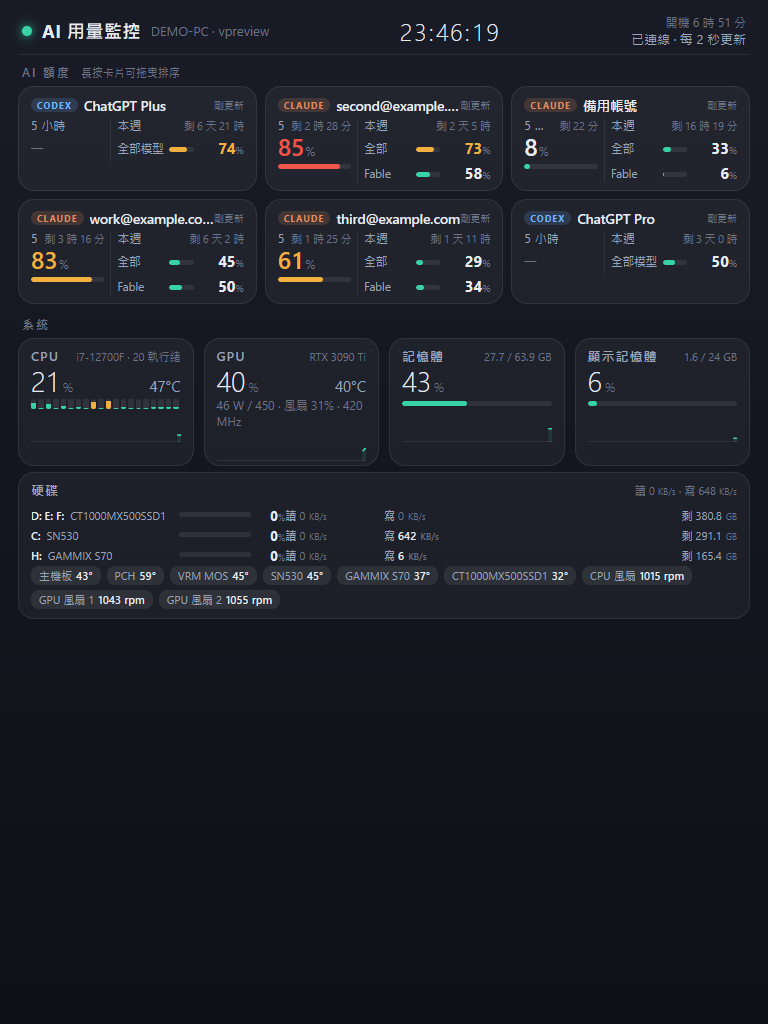
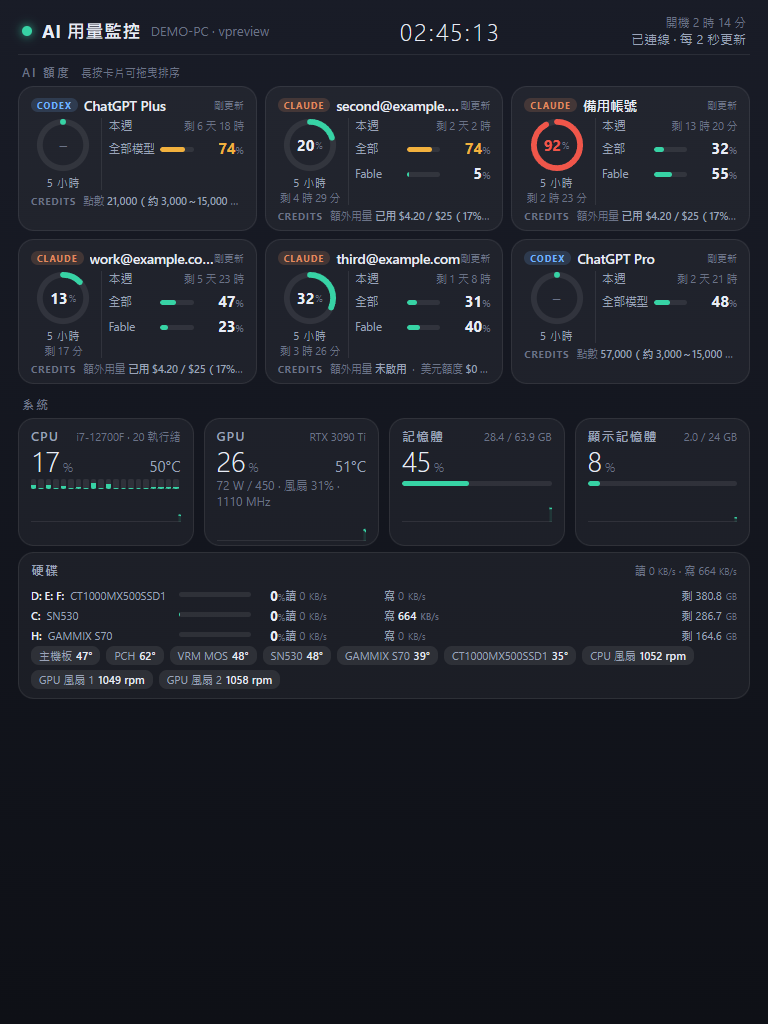
1.4.5: 5-hour ring gauge on the dashboard, Credits line per card (Claude extra usage / dollar allowance, Codex credits + reset vouchers); refreshed screenshots

diff --git a/src/providers/claude.js b/src/providers/claude.js
@@ -149,9 +149,73 @@ function normalizeUsage(raw) {
   return buckets;
 }
 
+// ---- Credits（額外用量）--------------------------------------
+// 回應裡的 spend／extra_usage 是「超過方案額度後可用的付費額度」；
+// 另外有些帳號會多一個以美元計的額度物件（limit_dollars / used_dollars，例如促銷額度），一併列出。
+function money(obj) {
+  if (!obj || typeof obj !== 'object') return null;
+  const n = num(obj.amount_minor);
+  if (n === null) return null;
+  const exp = num(obj.exponent);
+  return n / 10 ** (exp === null ? 2 : exp);
+}
+
+function fmtMoney(v, currency) {
+  if (v === null || v === undefined) return null;
+  const sym = !currency || currency === 'USD' ? '$' : `${currency} `;
+  return `${sym}${Number.isInteger(v) ? v : v.toFixed(2)}`;
+}
+
+function normalizeCredits(raw) {
+  if (!raw || typeof raw !== 'object') return null;
+  const spend = raw.spend && typeof raw.spend === 'object' ? raw.spend : null;
+  const eu = raw.extra_usage && typeof raw.extra_usage === 'object' ? raw.extra_usage : null;
+  if (!spend && !eu) return null;
+  const items = [];
+  let percent = null;
+  let level = null;
+
+  const enabled = Boolean((spend && spend.enabled) || (eu && eu.is_enabled));
+  if (enabled) {
+    const currency = (spend && spend.used && spend.used.currency) || (eu && eu.currency) || 'USD';
+    const used = money(spend && spend.used);
+    const limit = money(spend && spend.limit) ?? num(eu && eu.monthly_limit);
+    const balance = money(spend && spend.balance) ?? num(spend && spend.balance);
+    percent = num(spend && spend.percent, eu && eu.utilization);
+    let text;
+    if (balance !== null) text = `餘額 ${fmtMoney(balance, currency)}`;
+    else text = `已用 ${fmtMoney(used ?? 0, currency)}${limit !== null ? ` / ${fmtMoney(limit, currency)}` : ''}`;
+    if (percent !== null) text += `（${Math.round(percent)}%）`;
+    if ((spend && spend.spend_limit_reached) || (eu && eu.spend_limit_reached)) {
+      text += '・已達上限';
+      level = 'hot';
+    }
+    items.push({ name: '額外用量', text });
+  } else {
+    items.push({ name: '額外用量', text: eu && eu.credits_ever_enabled ? '已關閉' : '未啟用' });
+  }
+
+  // 以美元計的額度（名稱是 API 的內部代號，不顯示）
+  for (const [key, v] of Object.entries(raw)) {
+    if (!v || typeof v !== 'object' || Array.isArray(v) || key === 'spend' || key === 'extra_usage') continue;
+    const limitD = num(v.limit_dollars);
+    if (limitD === null) continue;
+    const usedD = num(v.used_dollars) ?? 0;
+    const reset = pickResetsAt(v);
+    let t = `${fmtMoney(usedD)} / ${fmtMoney(limitD)}`;
+    if (reset) {
+      const d = new Date(reset);
+      if (!Number.isNaN(d.getTime())) t += `（${d.getMonth() + 1}/${d.getDate()} 重置）`;
+    }
+    items.push({ name: '美元額度', text: t });
+    if (percent === null && limitD > 0) percent = Math.round((100 * usedD) / limitD);
+  }
+  return { label: 'Credits', items, percent, level };
+}
+
 async function fetchUsage(accessToken) {
   const raw = await getJson(C.CLAUDE_USAGE_URL, accessToken);
-  return { buckets: normalizeUsage(raw), raw };
+  return { buckets: normalizeUsage(raw), credits: normalizeCredits(raw), raw };
 }
 
 async function fetchProfile(accessToken) {
@@ -168,4 +232,4 @@ async function fetchProfile(accessToken) {
   return { email, name, raw };
 }
 
-module.exports = { fetchUsage, fetchProfile, normalizeUsage, AuthError };
+module.exports = { fetchUsage, fetchProfile, normalizeUsage, normalizeCredits, AuthError };

diff --git a/dashboard/app.js b/dashboard/app.js
@@ -135,19 +135,37 @@
     return '<span class="badge">CLAUDE</span>';
   }
 
-  // 一格額度：名稱／大百分比／細條／剩多久重置
-  //   name 為空 → 這張卡沒有這種額度，留白但佔位（讓每張卡的三欄對齊）
-  //   showReset=false → 不寫重置（分模型額度跟本週同時重置，只在本週寫一次）
+  // 鏤空圓環（SVG 兩個圓：底色一圈＋依百分比畫一段弧），iOS 9/10 Safari 也能畫
+  function donutSvg(pct, lv) {
+    var r = 24;
+    var c = 2 * Math.PI * r;
+    var dash = (Math.min(100, Math.max(0, pct || 0)) / 100 * c).toFixed(2);
+    return '<svg class="donut" viewBox="0 0 56 56"><circle class="donut-bg" cx="28" cy="28" r="' + r + '"></circle>' +
+      '<circle class="donut-fg ' + lv + '" cx="28" cy="28" r="' + r + '" stroke-dasharray="' + dash + ' ' + c.toFixed(2) + '" transform="rotate(-90 28 28)"></circle></svg>';
+  }
+
+  // 左欄「5 小時」：圓環中間放百分比，下面寫名稱與剩多久重置
+  //   name 為空 → 這張卡沒有這種額度，留白但佔位（讓每張卡的欄位對齊）
   function quotaCell(name, bucket, showReset) {
     if (!name) return '<div class="q blank"></div>';
-    if (!bucket) return '<div class="q none"><div class="q-name">' + esc(name) + '</div><div class="q-pct">–</div></div>';
+    if (!bucket) {
+      return '<div class="q ring-cell none"><div class="ring">' + donutSvg(0, '') + '<div class="pct">–</div></div><div class="ring-name">' + esc(name) + '</div></div>';
+    }
     var lv = levelOf(bucket.percent);
-    // 倒數放在標題同一行靠右（省一行高度，五張卡才放得下）
-    var html = '<div class="q"><div class="q-head"><span class="q-name">' + esc(name) + '</span>';
+    var html = '<div class="q ring-cell"><div class="ring">' + donutSvg(bucket.percent, lv) +
+      '<div class="pct ' + lv + '">' + Math.round(bucket.percent) + '<small>%</small></div></div>';
+    html += '<div class="ring-name">' + esc(name) + '</div>';
     if (showReset) html += '<span class="q-reset" data-reset="' + esc(bucket.resetsAt || '') + '">' + fmtReset(bucket.resetsAt, true) + '</span>';
-    html += '</div><div class="q-pct ' + lv + '">' + Math.round(bucket.percent) + '<small>%</small></div>';
-    html += '<div class="bar"><div class="fill ' + lv + '" style="width:' + Math.min(100, bucket.percent) + '%"></div></div></div>';
+    html += '</div>';
     return html;
+  }
+
+  // Credits 一行（各家的額外用量／點數）；沒有資料的服務就不畫
+  function creditLine(credits) {
+    if (!credits || !credits.items || !credits.items.length) return '';
+    var parts = [];
+    for (var i = 0; i < credits.items.length; i++) parts.push(esc(credits.items[i].name) + ' <b>' + esc(credits.items[i].text) + '</b>');
+    return '<div class="credit-line' + (credits.level === 'hot' ? ' hot' : '') + '"><span class="credit-tag">Credits</span>' + parts.join('<span class="sep">·</span>') + '</div>';
   }
 
   // 本週欄：兩列（全部模型／分模型），每列「名稱｜進度條｜百分比」同一行，重置只寫一次
@@ -240,6 +258,7 @@
         if (!week && scoped) { week = scoped; scoped = null; }
         // 左「5 小時」大數字；右「本週」兩列（全部／分模型）
         html += '<div class="quota">' + quotaCell('5 小時', session, true) + weekCell(week, scoped) + '</div>';
+        html += creditLine(u.credits);
       }
       html += '</div>';
       cardsHtml.push({ provider: a.provider, html: html });

diff --git a/test/units.js b/test/units.js
@@ -693,6 +693,51 @@ testAsync('伺服器：POST /api/order 回存順序；格式不對 400、太大 
   await noHandler.stop();
 });
 
+console.log('\nCredits（額外用量／點數）：');
+{
+  const claude = require('../src/providers/claude');
+  test('Claude：額外用量未啟用＋美元額度物件 → 兩個項目，百分比用美元額度算', () => {
+    const raw = {
+      spend: { used: { amount_minor: 0, currency: 'USD', exponent: 2 }, limit: null, percent: 0, enabled: false, balance: null },
+      extra_usage: { is_enabled: false, credits_ever_enabled: false },
+      iguana_necktie: { utilization: 0, resets_at: '2026-11-05T07:59:00+00:00', limit_dollars: 250, used_dollars: 12.5 },
+      five_hour: { utilization: 2, limit_dollars: null },
+    };
+    const c = claude.normalizeCredits(raw);
+    assert.deepStrictEqual(c.items.map((i) => i.name), ['額外用量', '美元額度']);
+    assert.strictEqual(c.items[0].text, '未啟用');
+    assert.strictEqual(c.items[1].text, '$12.50 / $250（11/5 重置）');
+    assert.strictEqual(c.percent, 5);
+  });
+  test('Claude：額外用量已啟用 → 已用／上限／百分比；達上限標 hot；關過的顯示已關閉', () => {
+    const on = claude.normalizeCredits({
+      spend: { used: { amount_minor: 1234, currency: 'USD', exponent: 2 }, limit: { amount_minor: 5000, currency: 'USD', exponent: 2 }, percent: 24.7, enabled: true, balance: null, spend_limit_reached: false },
+      extra_usage: { is_enabled: true },
+    });
+    assert.strictEqual(on.items[0].text, '已用 $12.34 / $50（25%）');
+    assert.strictEqual(on.percent, 24.7);
+    const capped = claude.normalizeCredits({ spend: { used: { amount_minor: 5000, exponent: 2 }, percent: 100, enabled: true, spend_limit_reached: true } });
+    assert.ok(capped.items[0].text.includes('已達上限'));
+    assert.strictEqual(capped.level, 'hot');
+    const off = claude.normalizeCredits({ extra_usage: { is_enabled: false, credits_ever_enabled: true } });
+    assert.strictEqual(off.items[0].text, '已關閉');
+    assert.strictEqual(claude.normalizeCredits({ limits: [] }), null, '沒有 spend／extra_usage 就 null');
+  });
+  test('Codex：有點數 → 千分位＋約略訊息數；沒點數 → 無；重置券張數', () => {
+    const c = codex.normalizeCredits({
+      credits: { has_credits: true, unlimited: false, overage_limit_reached: false, balance: '56581.1407', approx_local_messages: [14145, 73555] },
+      rate_limit_reset_credits: { available_count: 3 },
+    });
+    assert.deepStrictEqual(c.items, [{ name: '點數', text: '56,581（約 14,145～73,555 則）' }, { name: '重置券', text: '3 張' }]);
+    const none = codex.normalizeCredits({ credits: { has_credits: false, balance: '0', approx_local_messages: [0, 0] }, rate_limit_reset_credits: { available_count: 2 } });
+    assert.strictEqual(none.items[0].text, '無');
+    assert.strictEqual(none.items[1].text, '2 張');
+    const over = codex.normalizeCredits({ credits: { has_credits: true, balance: '10', overage_limit_reached: true } });
+    assert.strictEqual(over.level, 'hot');
+    assert.strictEqual(codex.normalizeCredits({ rate_limit: {} }), null);
+  });
+}
+
 console.log('\n硬碟讀寫取樣失敗時沿用上一筆：');
 {
   const { SystemMetrics } = require('../src/sysmetrics');

diff --git a/dashboard/style.css b/dashboard/style.css
@@ -315,6 +315,34 @@ body.many.top .spark { height: 30px; margin-top: 2px; }
 body.many.top .line { margin-bottom: 2px; min-height: 14px; }
 body.many.top .tile .bar { margin: 4px 0 6px; }
 
+/* ---- 5 小時圓環＋Credits 一行 ---- */
+.ring-cell { -webkit-flex: 0 0 34%; flex: 0 0 34%; display: -webkit-flex; display: flex; -webkit-flex-direction: column; flex-direction: column; -webkit-align-items: center; align-items: center; text-align: center; }
+.ring { position: relative; width: 62px; height: 62px; }
+.donut { width: 100%; height: 100%; display: block; }
+.donut-bg { fill: none; stroke: var(--track); stroke-width: 6; }
+.donut-fg { fill: none; stroke: var(--ok); stroke-width: 6; stroke-linecap: round; }
+.donut-fg.warn { stroke: var(--warn); }
+.donut-fg.hot { stroke: var(--hot); }
+.ring .pct { position: absolute; top: 0; left: 0; right: 0; bottom: 0; display: -webkit-flex; display: flex; -webkit-align-items: center; align-items: center; -webkit-justify-content: center; justify-content: center; font-size: 17px; font-weight: 700; font-variant-numeric: tabular-nums; }
+.ring .pct small { font-size: 9px; font-weight: 400; color: var(--text-faint); margin-left: 1px; }
+.ring .pct.warn { color: var(--warn); }
+.ring .pct.hot { color: var(--hot); }
+.ring-cell.none .pct { color: var(--text-faint); font-weight: 300; }
+.ring-name { font-size: 11px; color: var(--text-dim); letter-spacing: 0.5px; margin-top: 3px; }
+.ring-cell .q-reset { margin-left: 0; margin-top: 1px; }
+.credit-line { font-size: 11px; color: var(--text-faint); margin-top: 6px; white-space: nowrap; overflow: hidden; text-overflow: ellipsis; }
+.credit-line .credit-tag { font-size: 9.5px; font-weight: 700; letter-spacing: 1px; color: var(--text-faint); margin-right: 7px; text-transform: uppercase; }
+.credit-line b { color: var(--text-dim); font-weight: 600; }
+.credit-line .sep { margin: 0 6px; }
+.credit-line.hot b { color: var(--hot); }
+body.many .ring { width: 54px; height: 54px; }
+body.many .ring .pct { font-size: 15px; }
+body.many .credit-line { font-size: 10.5px; margin-top: 4px; }
+body.many.rows .ring { width: 46px; height: 46px; }
+body.many.rows .ring .pct { font-size: 13px; }
+body.many.rows .ring-name { display: none; }
+body.many.rows .credit-line { margin: 0 0 0 10px; -webkit-flex: 0 1 30%; flex: 0 1 30%; }
+
 /* ---- 拖曳排序（長按卡片後移動）---- */
 .card { -webkit-user-select: none; user-select: none; -webkit-touch-callout: none; }
 .card.lifted { -webkit-transform: scale(1.03); transform: scale(1.03); box-shadow: 0 8px 24px rgba(0, 0, 0, 0.5); border-color: var(--ok); z-index: 5; position: relative; opacity: 0.95; }

diff --git a/src/providers/codex.js b/src/providers/codex.js
@@ -117,6 +117,38 @@ function normalizeUsage(raw) {
   return buckets;
 }
 
+// ---- Credits：ChatGPT 的用量點數（超過方案額度後可扣）＋速率重置券 ----
+function fmtInt(n) {
+  return Math.round(n).toString().replace(/\B(?=(\d{3})+(?!\d))/g, ',');
+}
+
+function normalizeCredits(raw) {
+  const c = raw && raw.credits && typeof raw.credits === 'object' ? raw.credits : null;
+  const resets = raw && raw.rate_limit_reset_credits && typeof raw.rate_limit_reset_credits === 'object' ? raw.rate_limit_reset_credits : null;
+  if (!c && !resets) return null;
+  const items = [];
+  let level = null;
+  if (c) {
+    let text;
+    if (c.unlimited) text = '無限';
+    else if (!c.has_credits) text = '無';
+    else {
+      const bal = num(c.balance);
+      text = bal === null ? '有' : fmtInt(bal);
+      const range = Array.isArray(c.approx_local_messages) ? c.approx_local_messages.map((x) => num(x)).filter((x) => x !== null) : [];
+      if (range.length === 2 && range[1] > 0) text += `（約 ${fmtInt(range[0])}～${fmtInt(range[1])} 則）`;
+    }
+    if (c.overage_limit_reached) {
+      text += '・已達上限';
+      level = 'hot';
+    }
+    items.push({ name: '點數', text });
+  }
+  const n = resets ? num(resets.available_count) : null;
+  if (n !== null) items.push({ name: '重置券', text: `${n} 張` });
+  return { label: 'Credits', items, percent: null, level };
+}
+
 async function fetchUsage(accessToken, accountId) {
   const headers = {
     Authorization: `Bearer ${accessToken}`,
@@ -137,7 +169,7 @@ async function fetchUsage(accessToken, accountId) {
   }
   if (!res.ok) throw new Error(`伺服器回應 HTTP ${res.status}`);
   const raw = await res.json();
-  return { buckets: normalizeUsage(raw), raw };
+  return { buckets: normalizeUsage(raw), credits: normalizeCredits(raw), raw };
 }
 
-module.exports = { fetchUsage, normalizeUsage, AuthError };
+module.exports = { fetchUsage, normalizeUsage, normalizeCredits, AuthError };

diff --git a/renderer/app.js b/renderer/app.js
@@ -24,6 +24,7 @@ const ICONS = {
   trash: '<svg viewBox="0 0 24 24"><polyline points="3 6 5 6 21 6"/><path d="M19 6l-1 14H6L5 6"/><path d="M9 6V4h6v2"/><line x1="10" y1="11" x2="10" y2="17"/><line x1="14" y1="11" x2="14" y2="17"/></svg>',
   alert: '<svg viewBox="0 0 24 24"><path d="M10.29 3.86L1.82 18a2 2 0 0 0 1.71 3h16.94a2 2 0 0 0 1.71-3L13.71 3.86a2 2 0 0 0-3.42 0z"/><line x1="12" y1="9" x2="12" y2="13"/><line x1="12" y1="17" x2="12.01" y2="17"/></svg>',
   clock: '<svg viewBox="0 0 24 24"><circle cx="12" cy="12" r="9"/><polyline points="12 7 12 12 15 14"/></svg>',
+  credit: '<svg viewBox="0 0 24 24"><rect x="2" y="5" width="20" height="14" rx="2"/><line x1="2" y1="10" x2="22" y2="10"/><line x1="6" y1="15" x2="10" y2="15"/></svg>',
   chevron: '<svg viewBox="0 0 24 24"><polyline points="6 9 12 15 18 9"/></svg>',
 };
 
@@ -148,6 +149,10 @@ function cardHtml(account) {
       </div>`;
   } else if (usage && usage.ok) {
     body = `<div class="buckets">${usage.buckets.map((b) => bucketHtml(b, compact, usage.buckets)).join('')}</div>`;
+    if (usage.credits && Array.isArray(usage.credits.items) && usage.credits.items.length) {
+      const parts = usage.credits.items.map((it) => `${esc(it.name)} <b>${esc(it.text)}</b>`).join('<span class="sep">·</span>');
+      body += `<div class="card-note credits${usage.credits.level === 'hot' ? ' warn-text' : ''}">${ICONS.credit}<span>${parts}</span></div>`;
+    }
     if (!compact) {
       const at = new Date(usage.fetchedAt);
       const ageMin = Math.round((Date.now() - usage.fetchedAt) / 60000);

diff --git a/scripts/preview-dashboard.js b/scripts/preview-dashboard.js
@@ -34,8 +34,21 @@ async function refresh() {
     const r = await demo.fetchUsage(null, (i + 1) * 1.7);
     let buckets = r.buckets;
     if (a.provider === 'codex') buckets = r.buckets.slice(1, 2);
-    usage[a.id] = { ok: true, buckets, fetchedAt: Date.now() };
+    usage[a.id] = { ok: true, buckets, credits: demoCredits(a.provider, i), fetchedAt: Date.now() };
   }
+}
+
+// 各家 Credits 的示範樣子（Claude＝額外用量金額／美元額度；Codex＝點數＋重置券）
+function demoCredits(provider, i) {
+  if (provider === 'codex') {
+    return { label: 'Credits', items: [{ name: '點數', text: `${(12000 + i * 9000).toLocaleString('en-US')}（約 3,000～15,000 則）` }, { name: '重置券', text: `${(i % 3) + 1} 張` }], percent: null, level: null };
+  }
+  if (provider === 'claude') {
+    return i % 2
+      ? { label: 'Credits', items: [{ name: '額外用量', text: '未啟用' }, { name: '美元額度', text: '$0 / $250（11/5 重置）' }], percent: 0, level: null }
+      : { label: 'Credits', items: [{ name: '額外用量', text: '已用 $4.20 / $25（17%）' }], percent: 17, level: null };
+  }
+  return null;
 }
 
 function pullProxy() {

diff --git a/src/providers/demo.js b/src/providers/demo.js
@@ -41,7 +41,11 @@ async function fetchUsage(_token, seed = 1) {
       resetsAt: nextResetIso(week, seed * 11 * 3600 * 1000),
     },
   ];
-  return { buckets, raw: { demo: true } };
+  // Credits 示範：奇數 seed 像 Claude 的額外用量（金額），偶數像 Codex 的點數
+  const credits = Math.round(seed) % 2
+    ? { label: 'Credits', items: [{ name: '額外用量', text: `已用 $${(wave(seed + 0.9, 3 * 3600 * 1000, 2, 18)).toFixed(2)} / $25（${Math.round(wave(seed + 0.9, 3 * 3600 * 1000, 8, 72))}%）` }], percent: null, level: null }
+    : { label: 'Credits', items: [{ name: '點數', text: `${Math.round(wave(seed + 1.2, 6 * 3600 * 1000, 12000, 58000)).toLocaleString('en-US')}（約 3,000～15,000 則）` }, { name: '重置券', text: '2 張' }], percent: null, level: null };
+  return { buckets, credits, raw: { demo: true } };
 }
 
 module.exports = { fetchUsage };

diff --git a/renderer/style.css b/renderer/style.css
@@ -320,6 +320,12 @@ body {
   stroke-linecap: round; stroke-linejoin: round;
 }
 .card-note.error { color: var(--warn); }
+/* Credits（額外用量／點數）一行：名稱淡、數值稍亮 */
+.card-note.credits { margin-top: 5px; }
+.card-note.credits b { color: var(--text-dim); font-weight: 600; }
+.card-note.credits .sep { margin: 0 5px; }
+.card-note.credits.warn-text b { color: var(--warn); }
+body.compact .card-note.credits { display: none; }
 
 .reauth-btn {
   margin-left: auto;

diff --git a/src/poller.js b/src/poller.js
@@ -139,6 +139,7 @@ class UsagePoller {
       this.onResult(accountId, {
         ok: true,
         buckets: result.buckets,
+        credits: result.credits || null, // 各家的「額外用量／點數」資訊；沒有就 null
         fetchedAt: Date.now(),
       });
     } catch (err) {

diff --git a/README.md b/README.md
@@ -101,8 +101,11 @@ Portrait (768 px wide) stacks quota above the system tiles:
 
 <img src="docs/layout-portrait.png" width="384" alt="portrait layout">
 
-Every card shows the 5-hour window (big number + countdown) and the weekly quota (overall + per-model rows).
-Cards go grey when the PC has not refreshed that account for 20 minutes.
+Every card shows the 5-hour window as a ring (percent in the middle, reset countdown below) and the weekly
+quota (overall + per-model rows). A **Credits** line underneath shows what the vendor reports beyond the plan
+quota: for Claude the paid *extra usage* (used / limit / %, or "not enabled") plus any dollar-denominated
+allowance on the account; for ChatGPT Codex the credit balance (with the approximate message range) and the
+number of rate-limit reset vouchers. Cards go grey when the PC has not refreshed that account for 20 minutes.
 
 ## Troubleshooting
 
